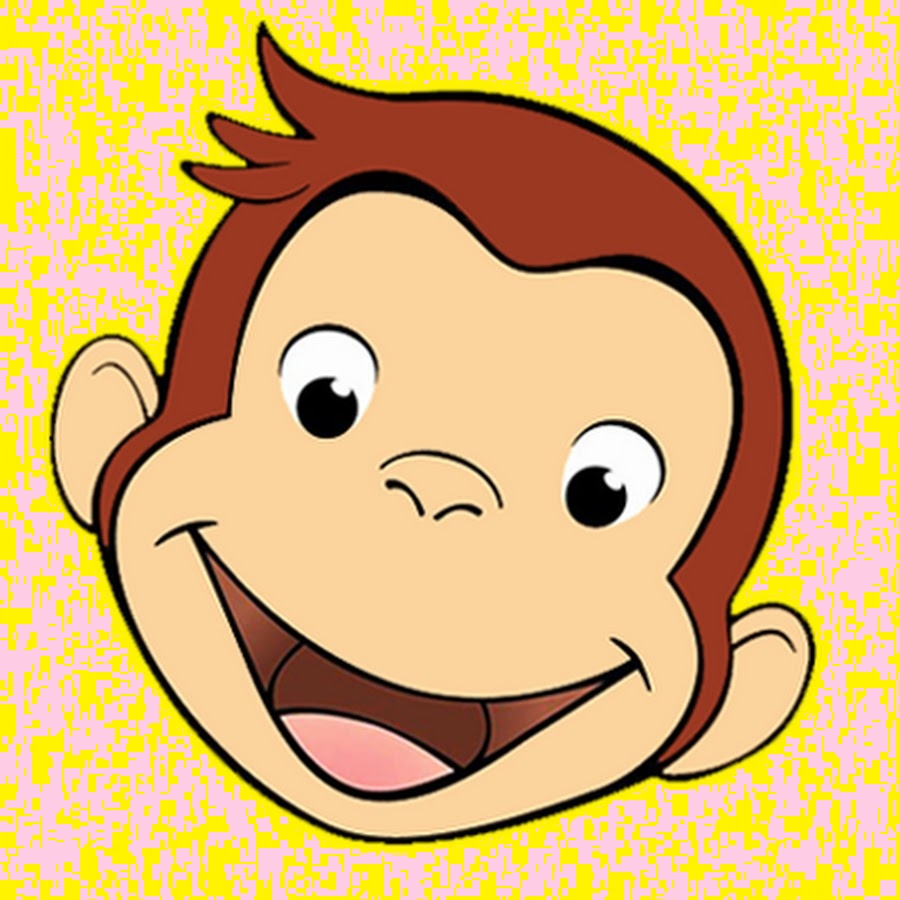
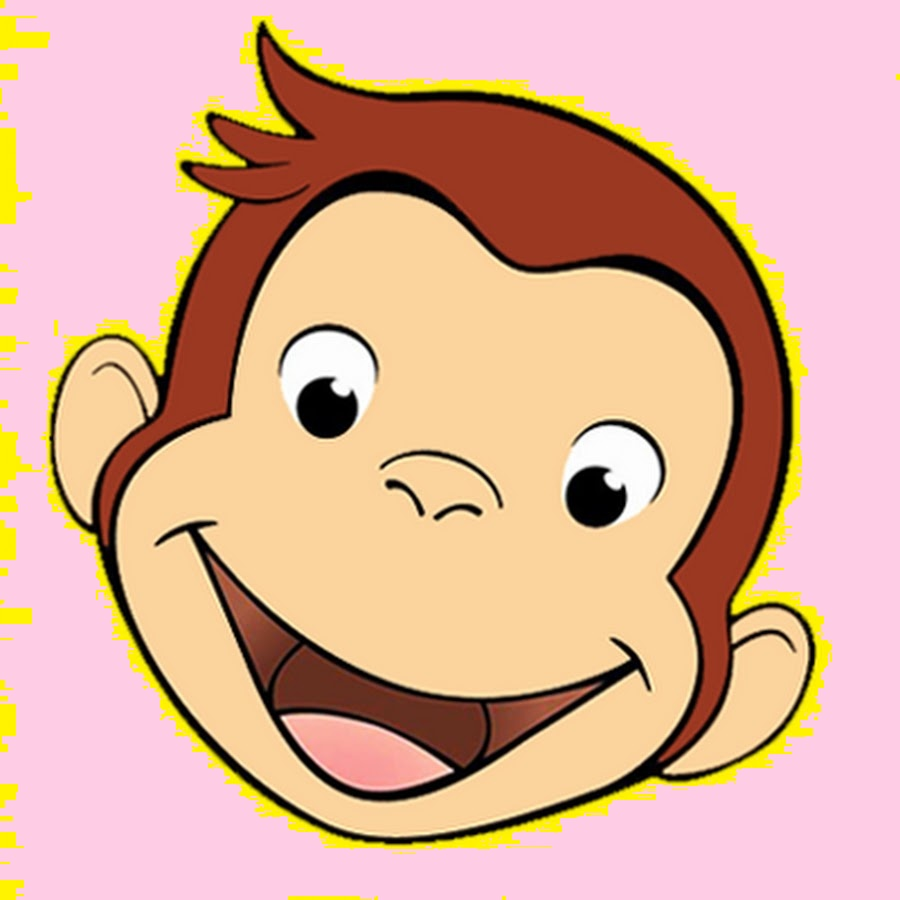
docs

Changed region(s): [[0.0, 0.0, 1.0, 1.0]]

diff --git a/README.md b/README.md
@@ -12,7 +12,8 @@ a new color using the flood fill algorithm.
 
 As you can see, the background of the example image is replaced with a new color.
 
-However, there are multiple shades of yellow present. I will be looking to address this with a "flood range" or "color tolerance" setting 
+However, color replacement is still not perfect as there are still some edges
+that "bleed" of the original color
 
 ## Usage
 ```
